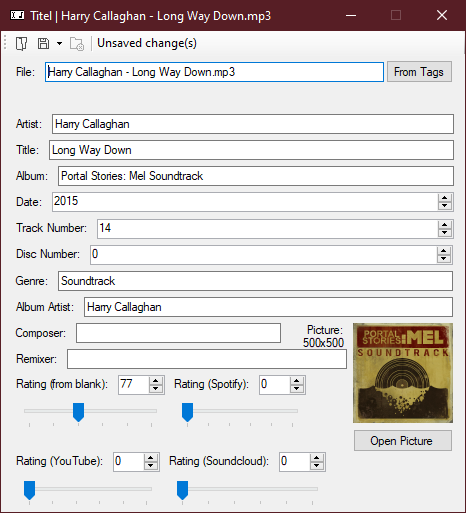
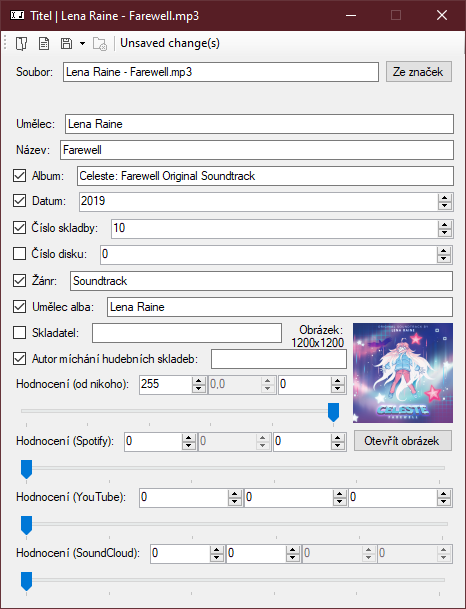
README.md updates

Changed region(s): [[0.03, 0.1871, 0.9914, 0.9669], [0.0, 0.0, 1.0, 0.1559], [0.0, 0.9981, 1.0, 1.0]]

diff --git a/README.md b/README.md
@@ -1,4 +1,6 @@
-![Titel (WinForm)](https://github.com/pisekpiskovec/Titel_WinFrorm/blob/master/Titel%20(WinFrorm)/Resources/titel_icon_64.png)
+## Even YOU can help me.
+
+![Titel (WinForm)](https://github.com/pisekpiskovec/Titel_WinForm/blob/master/Titel%20(WinForm)/Resources/titel_icon_64.png)
 
 # Titel_WinForm
 
@@ -6,9 +8,7 @@
 
 Inspired by KDE's Kid3 Audio tagger, Titel is a one-file-only utility to make your music library fancier.
 
-Titel is written in .NET Framework since it supports User Interface, which means it's Windows-only program. 😕
-
-⚠This project was created for learning and my personal purpose. I just wanted to share it with you.⚠
+⚠This project was created for learning purpose.⚠
 
 ## To-Do
 
@@ -32,10 +32,10 @@ Titel is written in .NET Framework since it supports User Interface, which means
 
 ## Screenshots
 
-![Newly opened window](https://github.com/pisekpiskovec/Titel_WinFrorm/blob/master/Titel%20(WinForm)/readme_resources/titel_new_window.png)
+![Newly opened window](https://github.com/pisekpiskovec/Titel_WinForm/blob/master/Titel%20(WinForm)/readme_resources/titel_new_window.png)
 (Newly opened window)
 
-![Window with a song loaded](https://github.com/pisekpiskovec/Titel_WinFrorm/blob/master/Titel%20(WinForm)/readme_resources/audio_loaded_changed.png)
+![Window with a song loaded](https://github.com/pisekpiskovec/Titel_WinForm/blob/master/Titel%20(WinForm)/readme_resources/audio_loaded_unchanged.png)
 (Window with a song loaded)
 
 ## Features
@@ -71,3 +71,9 @@ Titel is written in .NET Framework since it supports User Interface, which means
 | Close File          | Ctrl+W       |
 | Open Picture        | Ctrl+Alt+O   |
 | File Name From Tags | Ctrl+D       |
+
+## Even YOU can help me.
+
+Do you want to help me to improve Titel and don't know where to start? Well, I have the solution to that problem. The best way to improve Titel is by submitting new features, finding bugs and translating the program to your language.
+
+[Here](https://github.com/pisekpiskovec/Titel_WinForm/blob/master/transl_table.xlsx)'s the translation table ←.
